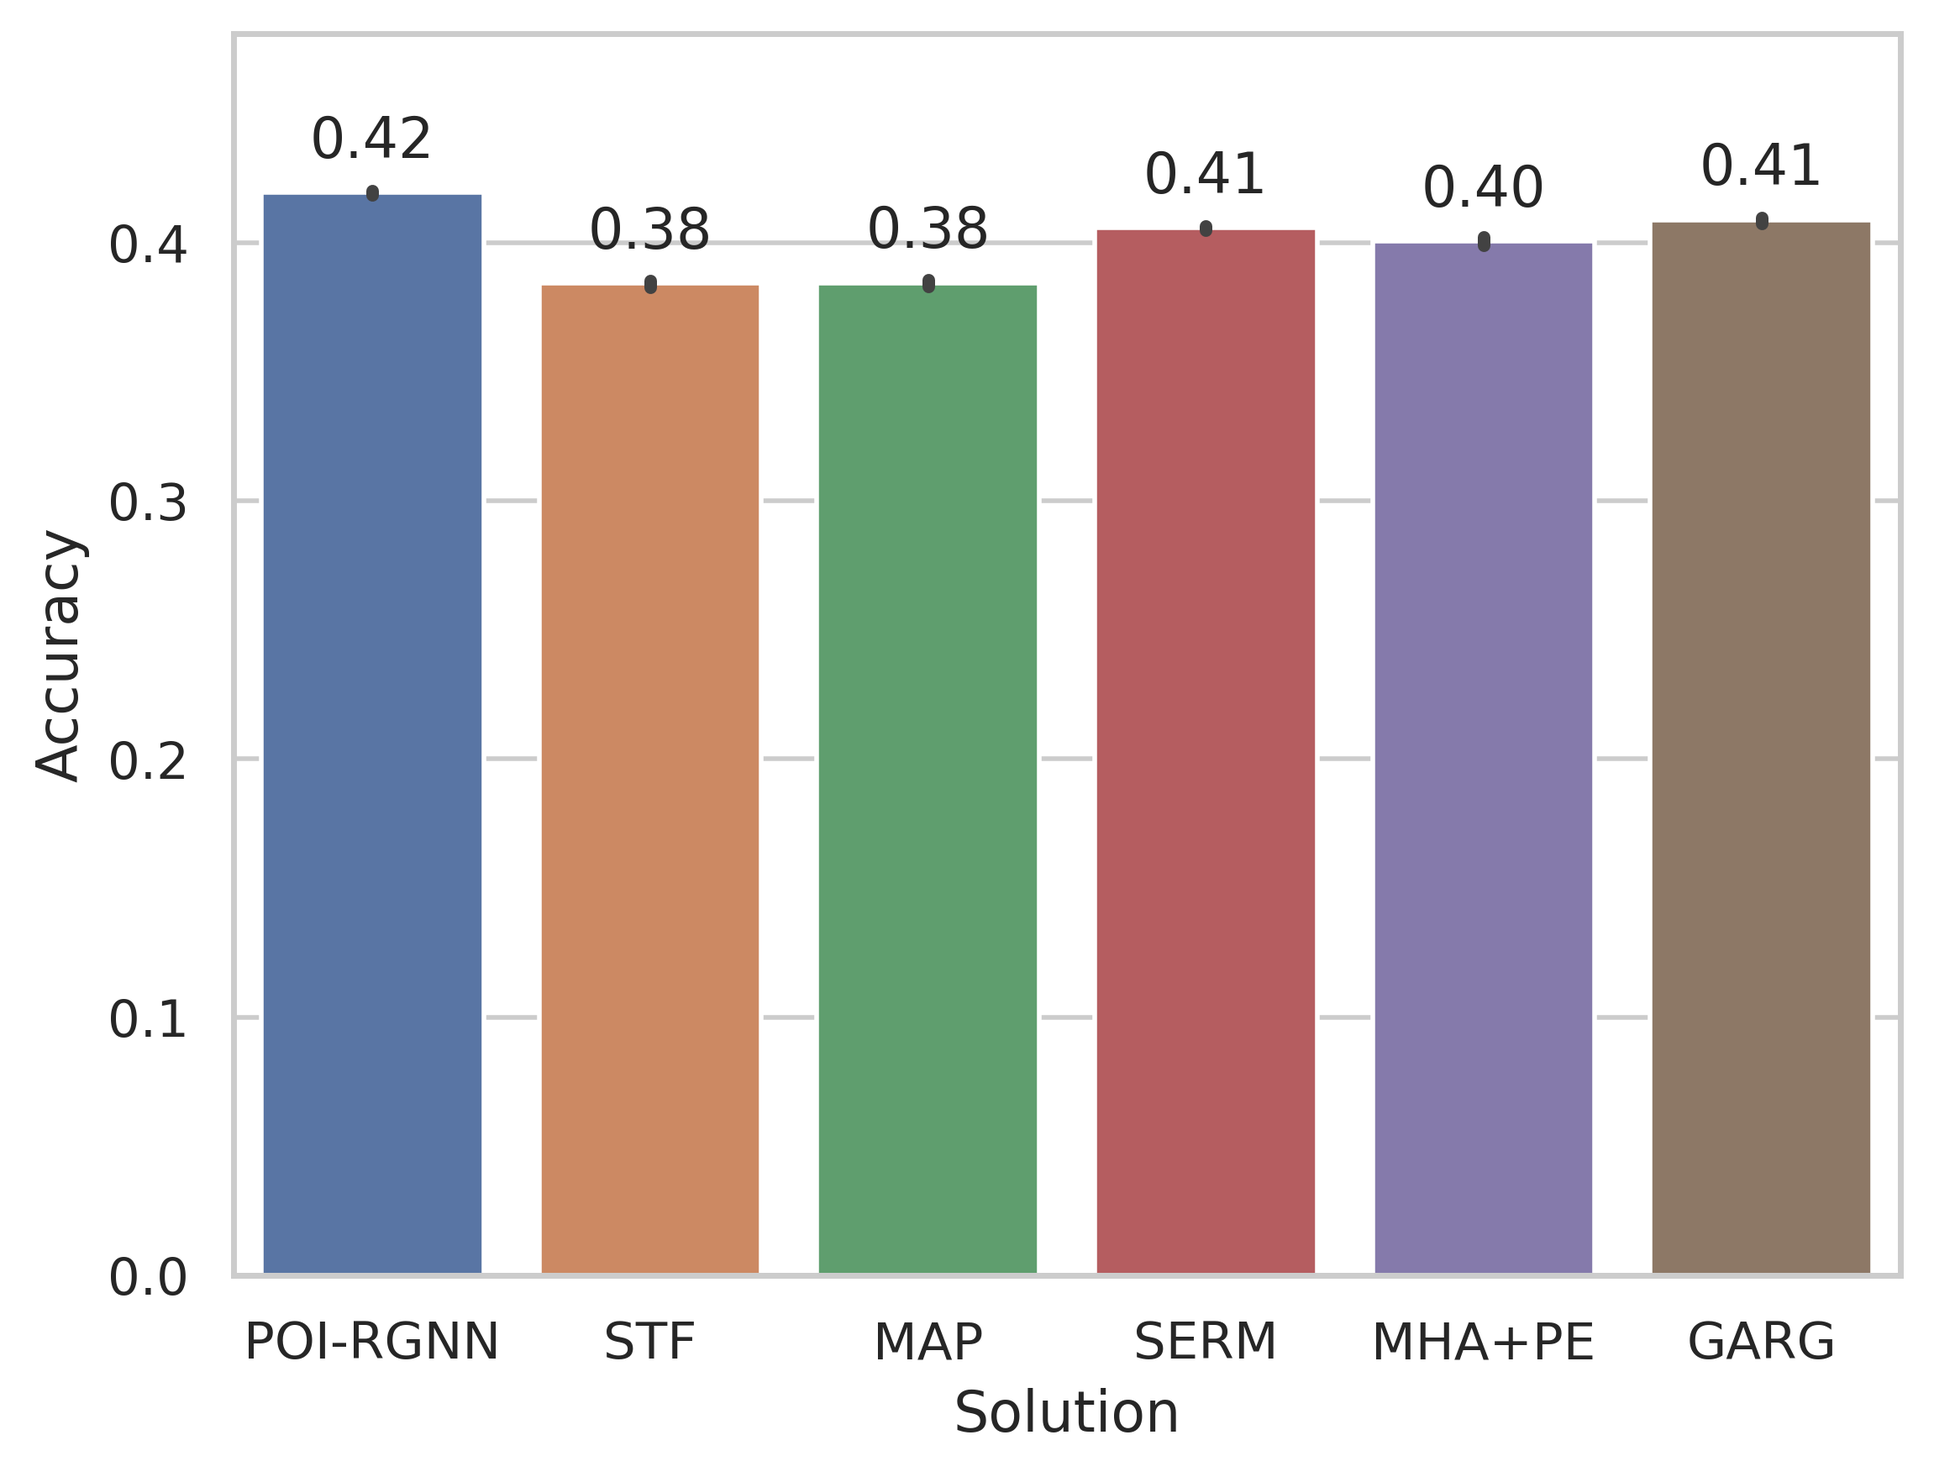
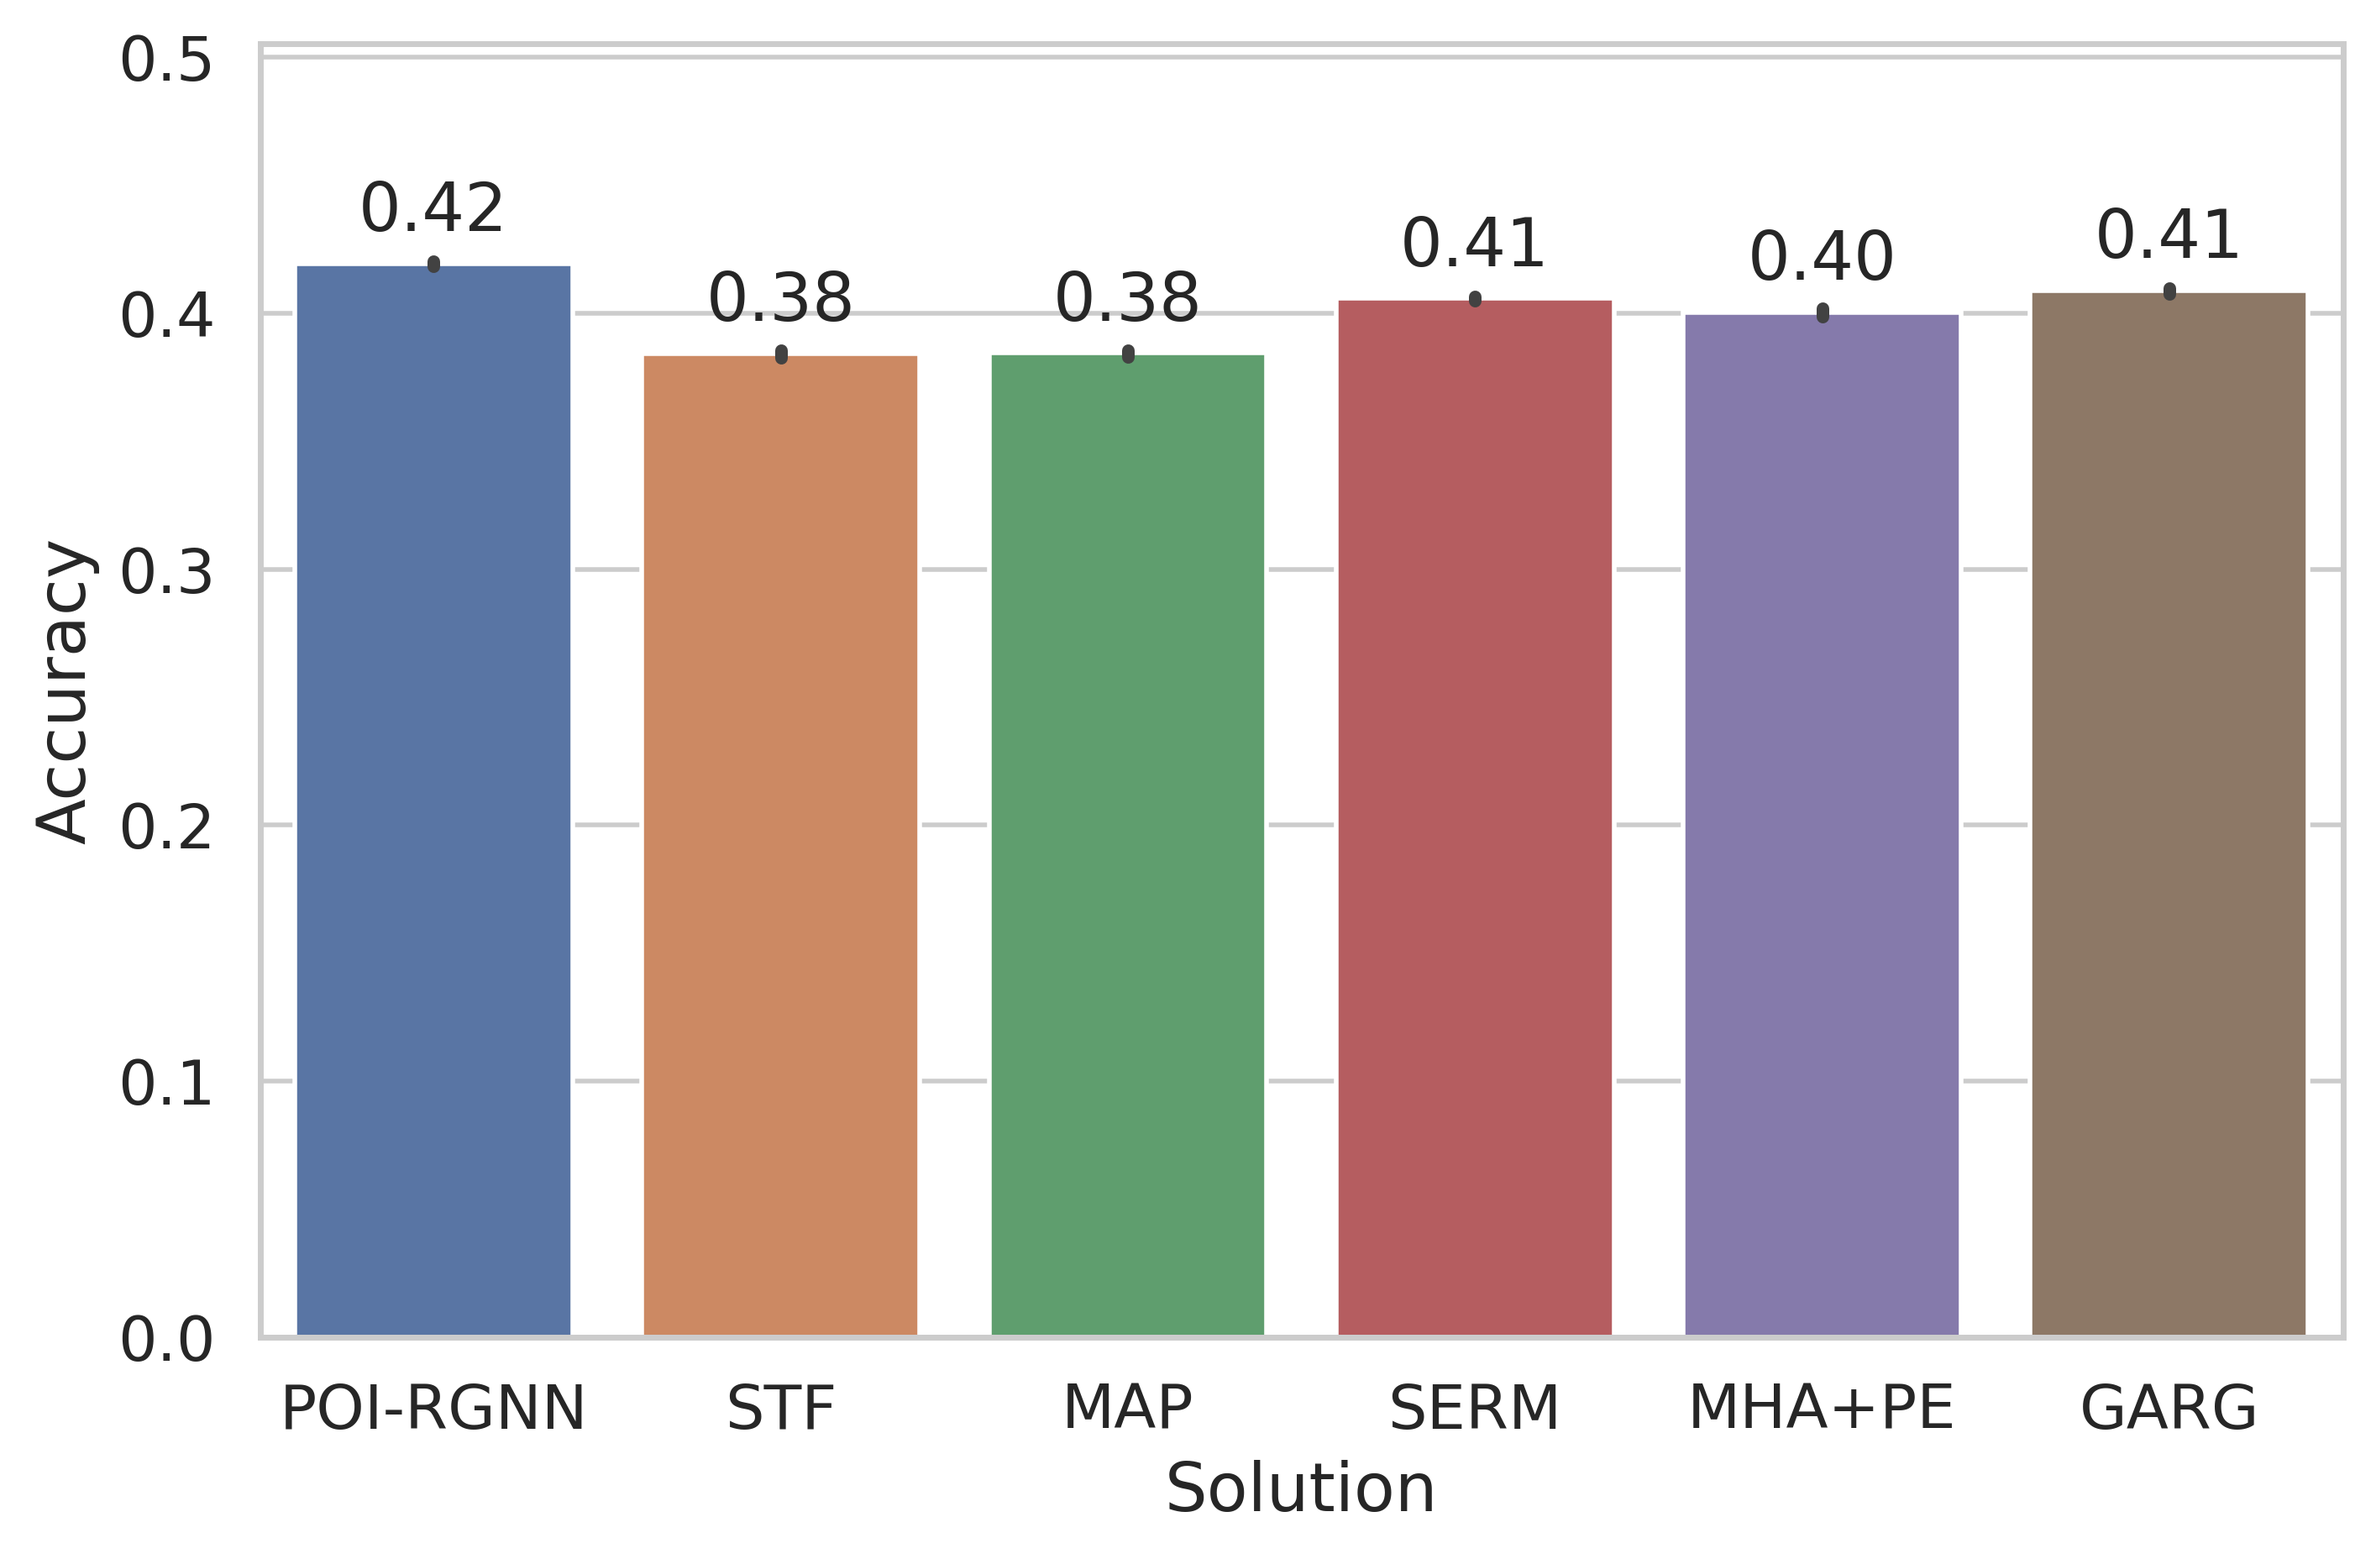
Gráficos de desempenho melhores

diff --git a/loader/performance_plots_loader.py b/loader/performance_plots_loader.py
@@ -142,7 +142,8 @@ class PerformancePlotsLoader:
 
     def barplot_with_values(self, metrics, x_column, y_column, base_dir, file_name, title, dataset):
         Path(base_dir).mkdir(parents=True, exist_ok=True)
-        plt.figure()
+        plt.figure(figsize=(8, 5))
+        sns.set(font_scale=1.2, style='whitegrid')
         # if y_column == 'Macro f1-score':
         #     order = ['MAP', 'STF-RNN', 'MHSA+PE', 'SERM', 'GARG', 'MFA-RNN']
         # elif y_column == 'Accuracy':
@@ -172,8 +173,9 @@ class PerformancePlotsLoader:
         figure = figure.get_figure()
         # plt.legend(bbox_to_anchor=(0.65, 0.74),
         #            borderaxespad=0)
-        maximum_value = metrics[y_column].max()
-        plt.ylim(0, maximum_value + 0.06)
+        sorted_values = sorted(metrics[y_column].tolist())
+        maximum = sorted_values[-1]
+        plt.ylim(0, maximum*1.2)
         # ax.yticks(labels=[df['Precision'].tolist()])
         figure.savefig(base_dir + file_name + ".png", bbox_inches='tight', dpi=400)
         plt.figure()
